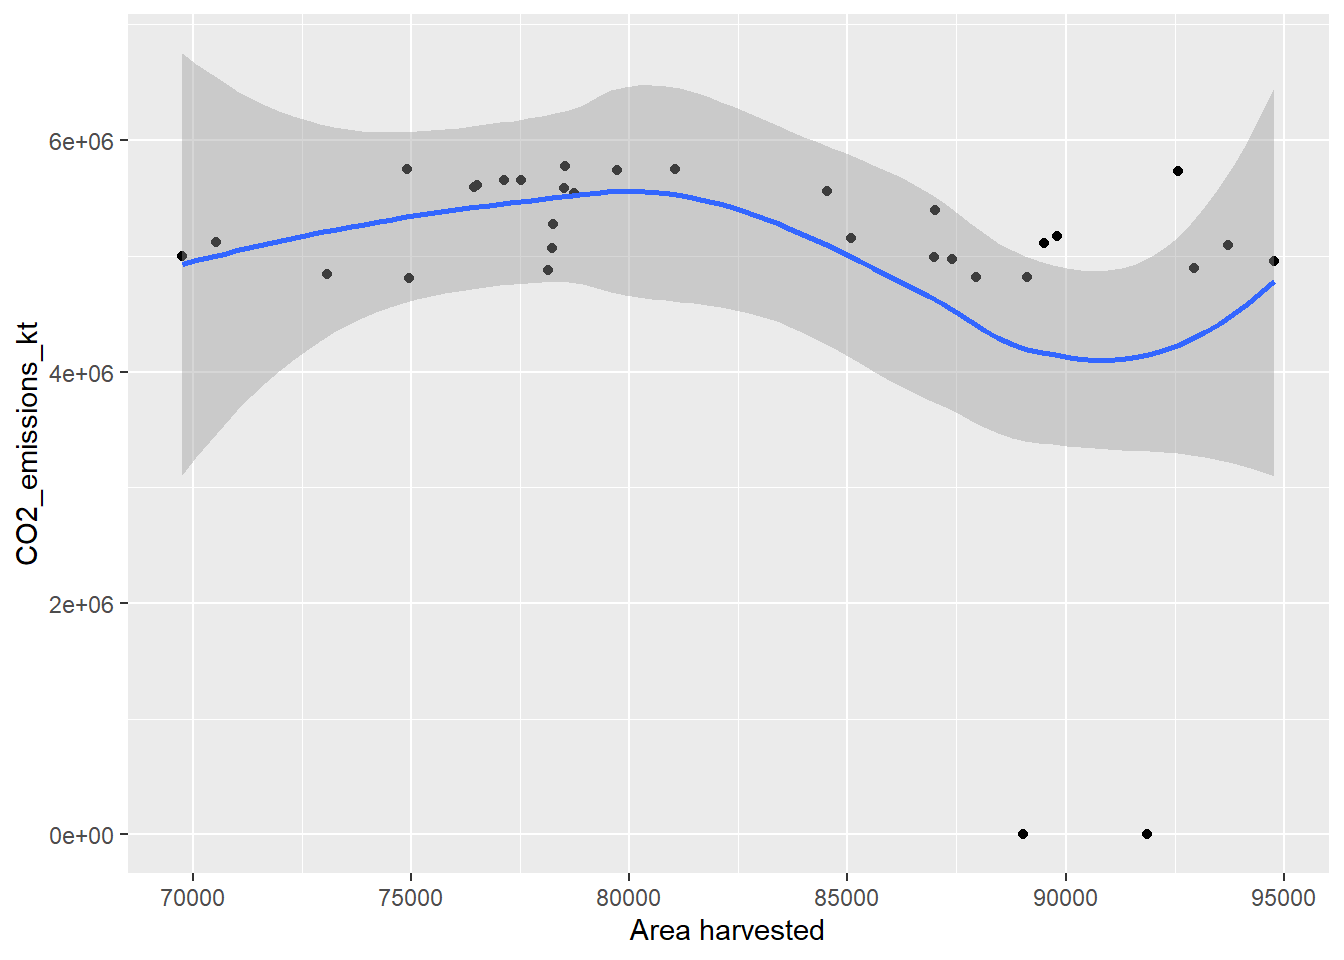
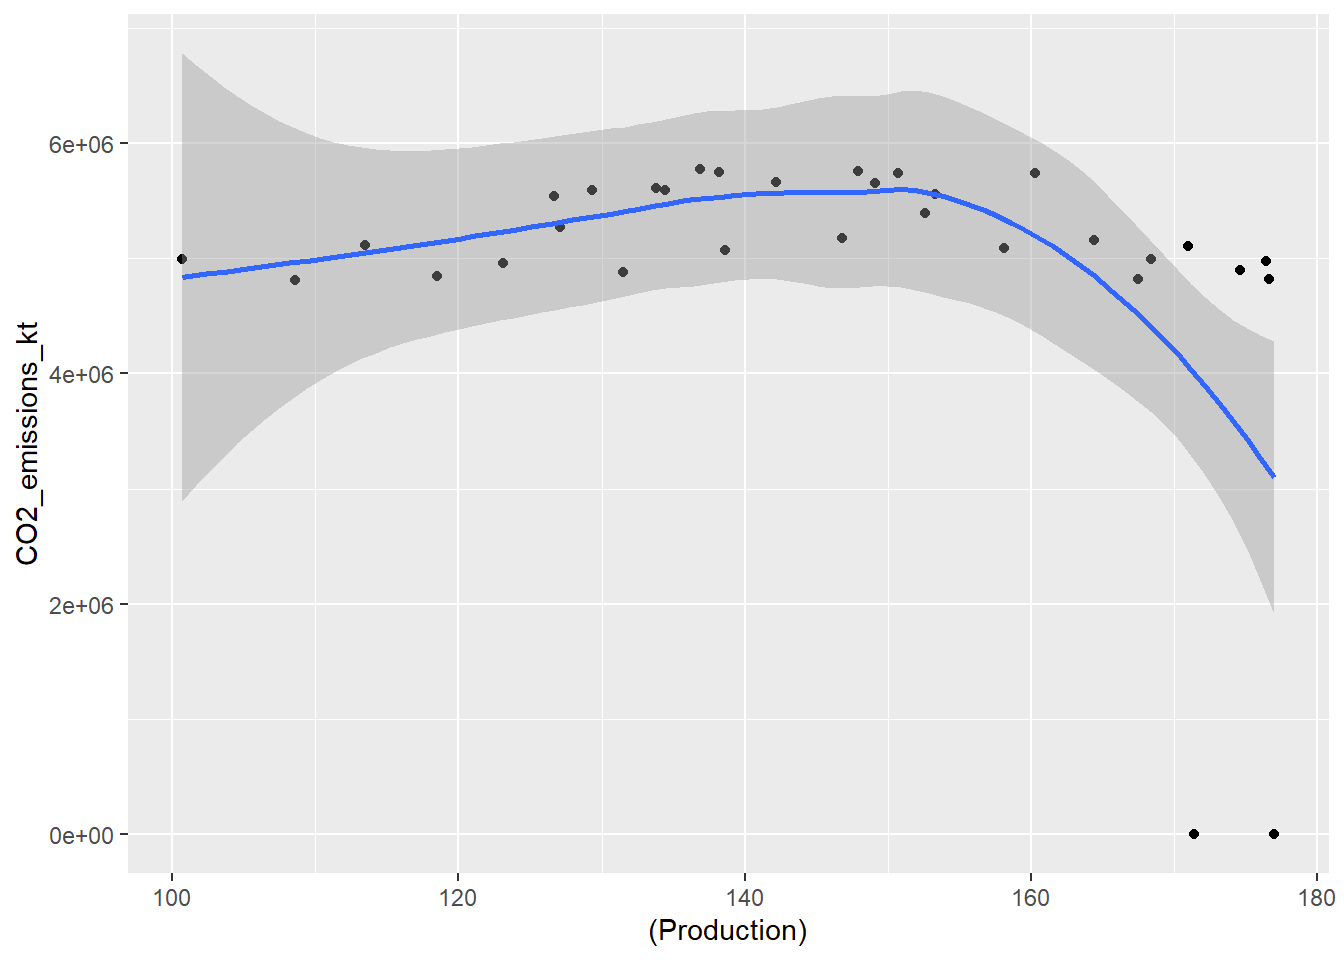
corn and flaxseed prod

diff --git a/content/flaxseed_analysis.html b/content/flaxseed_analysis.html
@@ -104,10 +104,14 @@ summary(lm2)</code></pre>
 ## Multiple R-squared:  0.4336, Adjusted R-squared:  0.3729 
 ## F-statistic: 7.145 on 3 and 28 DF,  p-value: 0.00104</code></pre>
 <p>As c02 emission increases the area harvested decreases. This allows us to create an ACF model. We will be adjusting the model to show autocorrelation. P values are statistically significant and there strong positive relationship.</p>
-<pre class="r"><code>flaxseed_co2_data %&gt;% ggplot(aes(x = `Area harvested`, y = CO2_emissions_kt)) + geom_point()+ geom_smooth()</code></pre>
+<pre class="r"><code>flaxseed_co2_data %&gt;% ggplot(aes(x = (Production), y = CO2_emissions_kt)) + geom_point()+ geom_smooth()</code></pre>
 <pre><code>## `geom_smooth()` using method = &#39;loess&#39; and formula &#39;y ~ x&#39;</code></pre>
 <p><img src="/flaxseed_analysis_files/figure-html/3-1.png" width="672" /></p>
-<p>From this plot we see a strong non-linear correlation between the Area harvested and co2 emissions. As the Co2 emission increases, the flaxseed area harvested decreases. We further analyze this relationship below.</p>
+<pre class="r"><code>flaxseed_co2_data %&gt;% ggplot(aes(x = `Area harvested`, y = CO2_emissions_kt)) + geom_point()+ geom_smooth()</code></pre>
+<pre><code>## `geom_smooth()` using method = &#39;loess&#39; and formula &#39;y ~ x&#39;</code></pre>
+<p><img src="/flaxseed_analysis_files/figure-html/3-2.png" width="672" />
+We see a weak positive correlation between flaxseed production and CO2 emissions.</p>
+<p>From the second plot we see a strong non-linear correlation between the Area harvested and co2 emissions. As the CO2 emission increases, the flaxseed area harvested decreases. We further analyze this relationship below.</p>
 <pre class="r"><code>ggAcf(lm2$residuals)</code></pre>
 <p><img src="/flaxseed_analysis_files/figure-html/4-1.png" width="672" />
 There seems to be a trend, but the variance is not constant. As flaxseed area harvested decreases, CO2 emissions increase. Adjusting the model to show autocorrelation, we find that there is not a constant autocorrelation pattern. Therefore, we can make a prediction model for flaxseed production vs. CO2 emissions. We need to perform more tests on this relationship to better inform our model.</p>

diff --git a/content/corn_analysis.html b/content/corn_analysis.html
@@ -87,10 +87,14 @@ corn_ts &lt;- ggplot(corn_co2_data, aes(x=Year, y=Production)) +
 corn_ts</code></pre>
 <p><img src="/corn_analysis_files/figure-html/corn_timeseries-1.png" width="672" />
 The above line graph shows corn production in United States from 1990 to 2021. There’s a clear positive trend in production as time goes on.</p>
+<pre class="r"><code>corn_co2_data %&gt;% ggplot(aes(x = (Production), y = CO2_emissions_kt)) + geom_point()+ geom_smooth()</code></pre>
+<pre><code>## `geom_smooth()` using method = &#39;loess&#39; and formula &#39;y ~ x&#39;</code></pre>
+<p><img src="/corn_analysis_files/figure-html/unnamed-chunk-1-1.png" width="672" /></p>
 <pre class="r"><code>corn_co2_data %&gt;% ggplot(aes(x = `Area harvested`, y = CO2_emissions_kt)) + geom_point()+ geom_smooth()</code></pre>
 <pre><code>## `geom_smooth()` using method = &#39;loess&#39; and formula &#39;y ~ x&#39;</code></pre>
-<p><img src="/corn_analysis_files/figure-html/unnamed-chunk-1-1.png" width="672" />
-We first started with a linear model trying to figure out if there is a relationship between corn area harvested and co2 emission. It seems like a cubic graph with no relationship. We will perform more tests and ggACF to future analyze the relationship.</p>
+<p><img src="/corn_analysis_files/figure-html/unnamed-chunk-1-2.png" width="672" />
+We first started with production of corn vs CO2 emissions and found a non-linear negative correlation between the two.</p>
+<p>We then examined a linear model trying to figure out if there is a relationship between corn area harvested and co2 emission. It seems like a cubic graph with no relationship. We will perform more tests and ggACF to future analyze the relationship.</p>
 </div>
 <div id="corn-vs.-co2-emissions-in-depth" class="section level2">
 <h2>Corn vs. CO2 Emissions In-Depth</h2>
